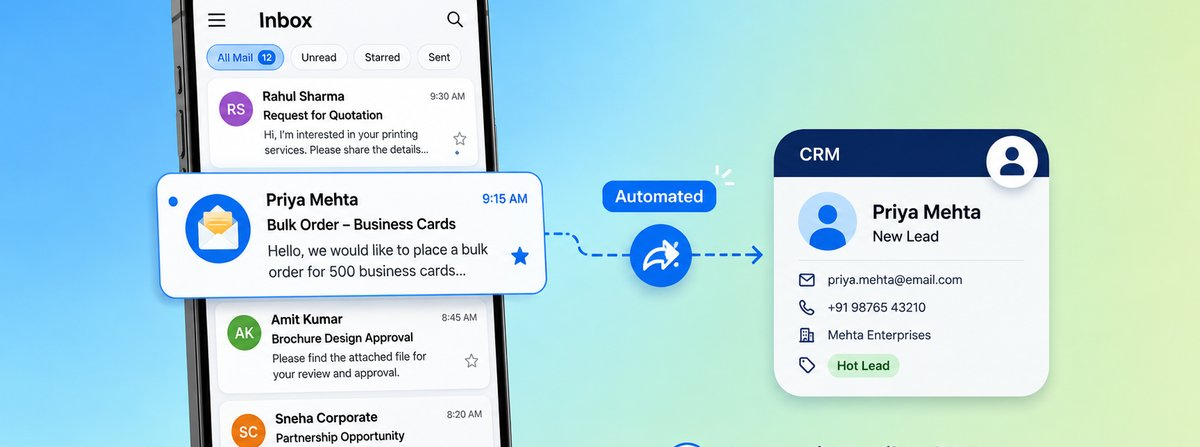
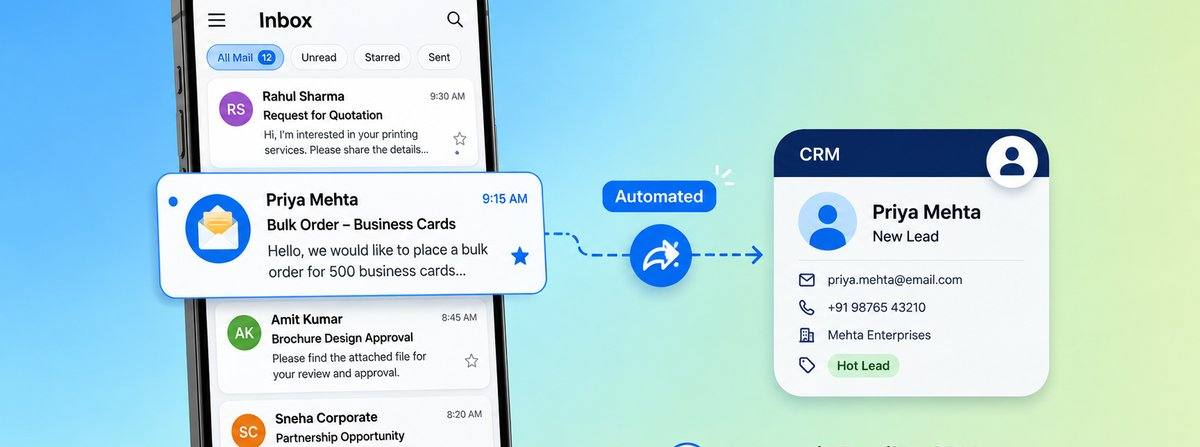
Render actual <img> tags for blog post hero images
Both new blog images (gbp-verification.jpg, email-crm-automation.jpg)
were only wired into og:image/schema, never rendered in the visible
page body — GEO audit flagged this as a multi-modal content gap since
AI engines associate images with visible content, not just meta tags.
Also recompressed email-crm-automation.jpg (68KB -> 54KB).

diff --git a/blog/google-business-profile-verification-guide/index.html b/blog/google-business-profile-verification-guide/index.html
@@ -108,6 +108,8 @@
     <a href="/blog/" class="art-back">&larr; Back to Blog</a>
     <div class="art-meta"><span>By Jairaj J</span><span class="dot">&middot;</span><span>5 min read</span><span class="dot">&middot;</span><span>July 14, 2026</span><span class="dot">&middot;</span><span>Yelahanka, Bangalore</span></div>
 
+    <img src="/img/blog/gbp-verification.jpg" alt="Smartphone showing a Google Business Profile listing with a verified checkmark badge" class="art-hero-img" width="1200" height="633">
+
     <p class="art-lead">An unverified Google Business Profile can't appear in the Google Maps local pack &mdash; no matter how good your website or SEO is. Verification is free, but the process trips people up. Here's exactly how it works in India.</p>
     <div class="art-key"><strong>Quick answer:</strong> Most businesses in India verify by postcard (5&ndash;14 days) or phone/text (instant, if offered for your category). Start verification the same day you create the profile &mdash; it's the single biggest local ranking lever and the clock only starts once it's done.</div>
 

diff --git a/blog/email-crm-automation-bangalore/index.html b/blog/email-crm-automation-bangalore/index.html
@@ -108,6 +108,8 @@
     <a href="/blog/" class="art-back">&larr; Back to Blog</a>
     <div class="art-meta"><span>By Jairaj J</span><span class="dot">&middot;</span><span>6 min read</span><span class="dot">&middot;</span><span>July 14, 2026</span><span class="dot">&middot;</span><span>Bangalore</span></div>
 
+    <img src="/img/blog/email-crm-automation.jpg" alt="Phone inbox with an automated email connecting to a CRM contact card" class="art-hero-img" width="1200" height="447">
+
     <p class="art-lead">Most small businesses in Bangalore treat email as an afterthought &mdash; the occasional newsletter, if that. Meanwhile it remains one of the highest-ROI channels available, because you own the list instead of renting reach from a platform algorithm.</p>
     <div class="art-key"><strong>Quick answer:</strong> Automation means trigger-based sequences that send themselves &mdash; welcome emails, abandoned cart reminders, post-purchase follow-ups &mdash; set up once, running for months. For qualified clients this has driven up to 42&times; ROI relative to setup cost.</div>
 

diff --git a/style.css b/style.css
@@ -730,6 +730,7 @@ p  { color:var(--body); line-height:1.85 }
 .article .art-cta p { color:rgba(255,255,255,.6); margin-bottom:1.5rem }
 .art-back { display:inline-flex; align-items:center; gap:.4rem; font-size:.85rem; color:var(--muted); text-decoration:none; margin-bottom:1.5rem }
 .art-back:hover { color:var(--gold) }
+.art-hero-img { width:100%; height:auto; border-radius:var(--r-lg); margin-bottom:1.8rem; display:block }
 
 /* ── FREE AUDIT ───────────────────────────────────────────────── */
 .audit-layout { display:grid; grid-template-columns:1fr 1fr; gap:3.5rem; align-items:start }
